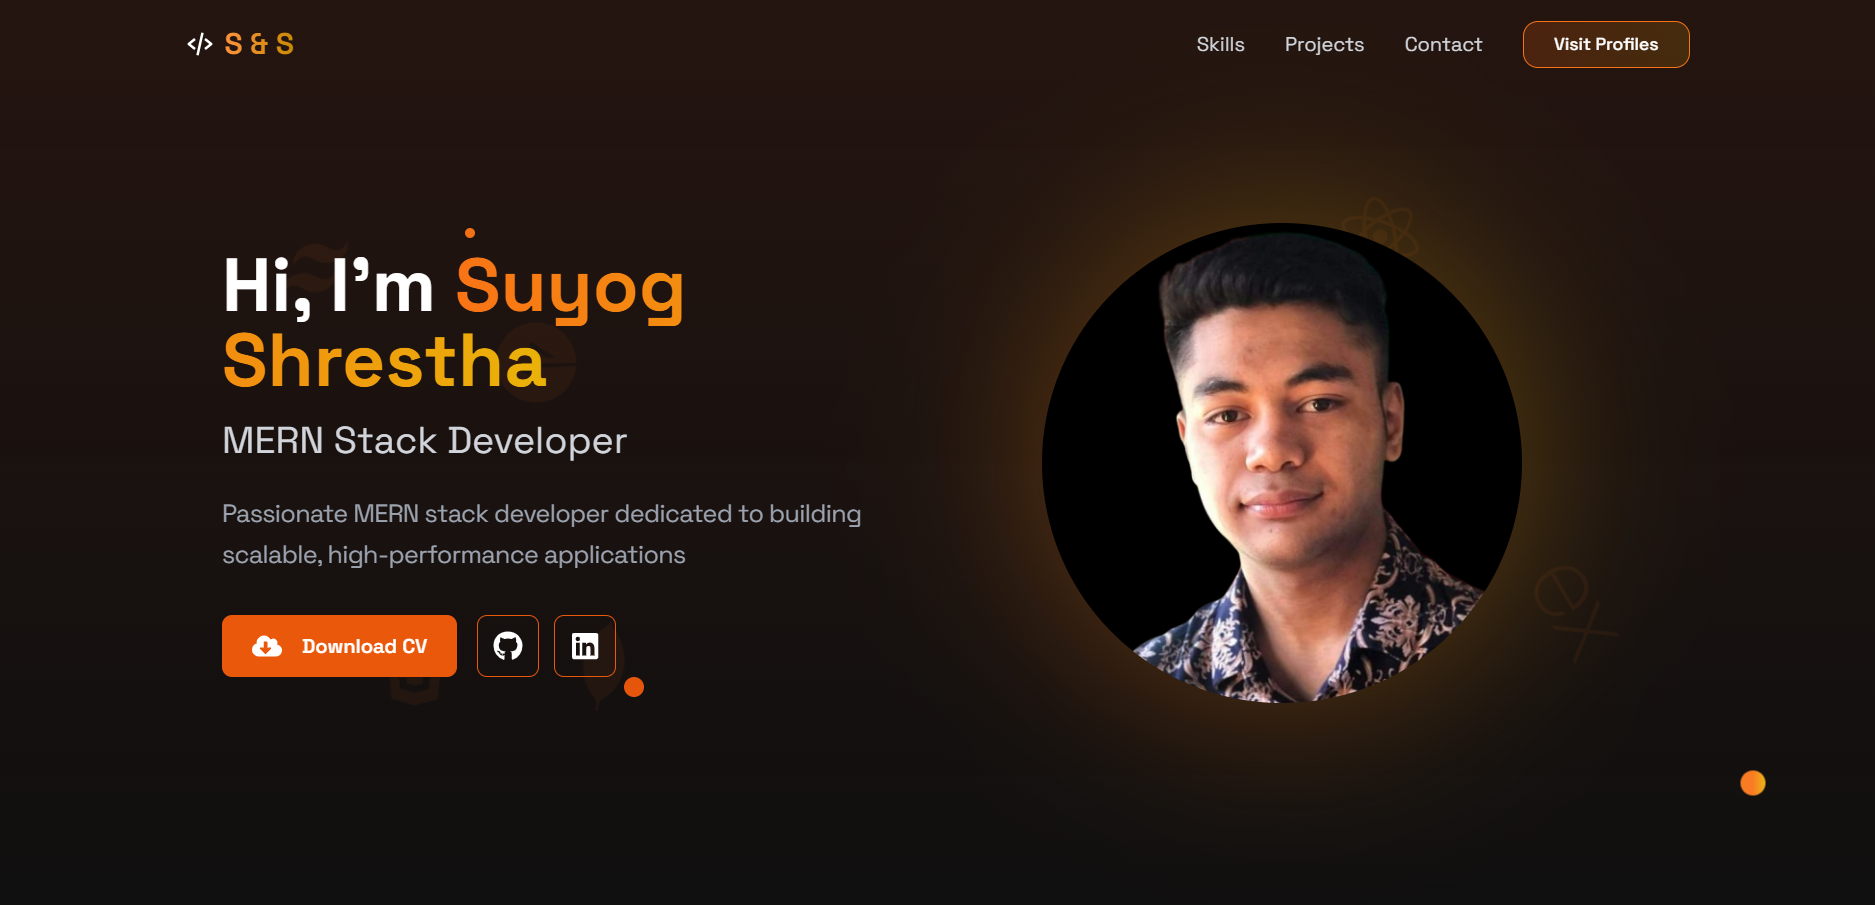
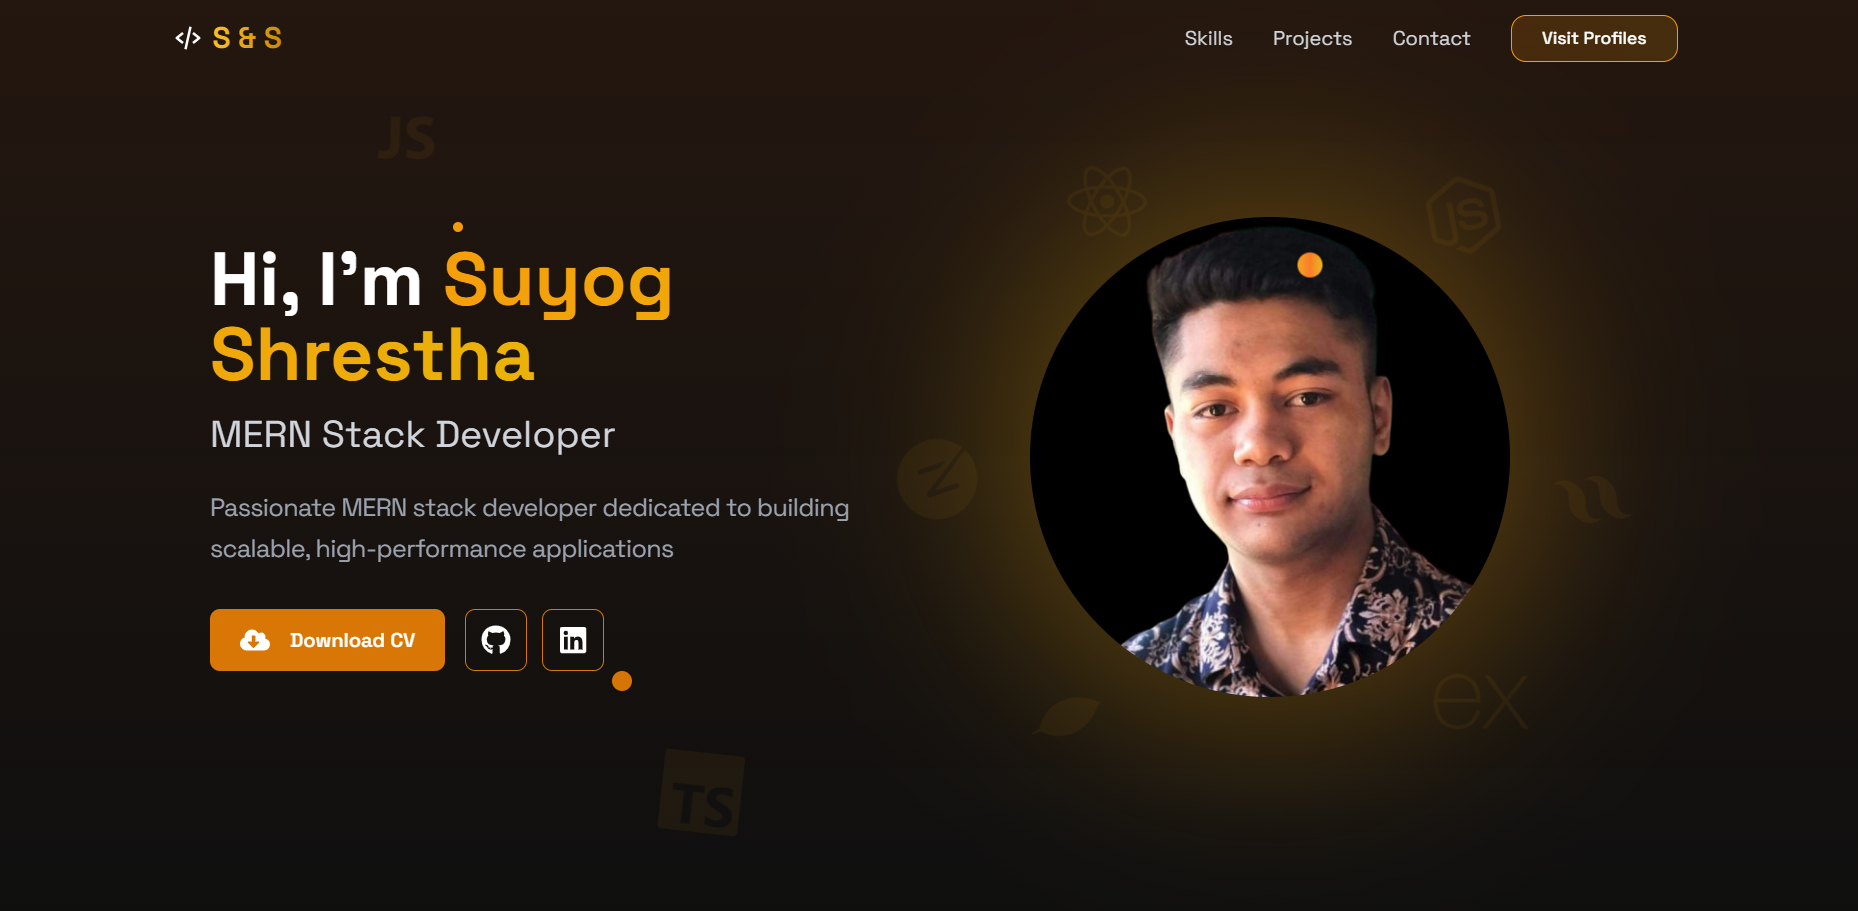
changes

diff --git a/src/components/Hero.jsx b/src/components/Hero.jsx
@@ -1,7 +1,15 @@
 import { useState, useEffect } from "react";
 import { motion } from "framer-motion";
 import { TypeAnimation } from "react-type-animation";
-import { FaGithub, FaLinkedin, FaReact, FaNodeJs, FaDownload, FaFileDownload, FaCloudDownloadAlt } from "react-icons/fa";
+import {
+  FaGithub,
+  FaLinkedin,
+  FaReact,
+  FaNodeJs,
+  FaDownload,
+  FaFileDownload,
+  FaCloudDownloadAlt,
+} from "react-icons/fa";
 import { DiJavascript, DiMongodb } from "react-icons/di";
 import {
   SiTypescript,
@@ -24,7 +32,7 @@ const FloatingIcon = ({ Icon, className, animate }) => {
 
   return (
     <motion.div
-      className={`absolute text-amber-500/25 ${className}`}
+      className={`absolute text-orange-500/25 ${className}`}
       animate={{
         ...animate,
         x: [0, mousePosition.x * 0.02, 0],
@@ -46,7 +54,7 @@ const Hero = () => {
   return (
     <section className="relative min-h-screen flex items-center justify-center overflow-hidden py-16 lg:py-24">
       {/* Background gradient */}
-      <div className="absolute inset-0 bg-gradient-to-b from-amber-900/20 to-transparent"></div>
+      <div className="absolute inset-0 bg-gradient-to-b from-orange-900/20 to-transparent"></div>
 
       <div className="container mx-auto px-4 lg:px-6 z-10">
         <div className="flex flex-col md:flex-row items-center justify-between gap-6 lg:gap-8 max-w-6xl mx-auto">
@@ -57,36 +65,39 @@ const Hero = () => {
             transition={{ duration: 0.8 }}
             className="flex-1 text-white max-w-lg"
           >
-            <h1 className="text-4xl md:text-5xl lg:text-6xl font-bold mb-4">
-              Hi, I'm{" "}
-              <span className="bg-gradient-to-r from-amber-500 to-yellow-500 bg-clip-text text-transparent">
+            <h1 className="text-4xl md:text-5xl lg:text-6xl font-bold mb-4 flex justify-center md:justify-start gap-2 ">
+              Hi, I'm{"  "}
+              <span className="bg-gradient-to-r from-orange-500 to-yellow-500 bg-clip-text text-transparent">
                 Suyog Shrestha
               </span>
             </h1>
-            <TypeAnimation
-              sequence={[
-                "MERN Stack Developer",
-                1000,
-                "Coder  ",
-                1000,
-                "Programmer",
-                1000,
-              ]}
-              wrapper="h3"
-              repeat={Infinity}
-              className="text-2xl md:text-2xl lg:text-3xl text-gray-300 mb-6"
-            />
-            <p className="text-gray-400 mb-8 max-w-lg">
+            <div className="flex justify-center items-center w-full">
+              <TypeAnimation
+                sequence={[
+                  "MERN Stack Developer",
+                  1000,
+                  "Coder  ",
+                  1000,
+                  "Programmer",
+                  1000,
+                ]}
+                wrapper="h3"
+                repeat={Infinity}
+                className="text-2xl md:text-2xl lg:text-3xl text-gray-300 mb-6 text-center"
+              />
+            </div>
+
+            <p className="text-gray-400 mb-8 max-w-lg text-center md:text-left">
               Passionate MERN stack developer dedicated to building scalable,
               high-performance applications
             </p>
-            <div className="flex gap-4">
+            <div className="flex gap-4 justify-center md:justify-start">
               <motion.a
                 href="/src/assets/Resume.pdf"
-                download="Suyog Shrestha_CV.pdf" 
+                download="Suyog Shrestha_CV.pdf"
                 whileHover={{ scale: 1.05 }}
                 whileTap={{ scale: 0.95 }}
-                className="px-6 py-3 bg-amber-600 rounded-lg font-semibold hover:bg-amber-700 transition-colors flex items-center gap-2"
+                className="px-6 py-3 bg-orange-600 rounded-lg font-semibold hover:bg-orange-700 transition-colors flex items-center gap-2"
               >
                 <FaCloudDownloadAlt className="mr-2 w-6 h-6" />
                 Download CV
@@ -97,27 +108,27 @@ const Hero = () => {
                   href="https://github.com/suystha7" // Replace with your GitHub URL
                   target="_blank"
                   rel="noopener noreferrer"
-                  className="p-3 border border-amber-600 rounded-lg hover:bg-amber-600/10 transition-all group"
+                  className="p-3 border border-orange-600 rounded-lg hover:bg-orange-600/10 transition-all group"
                   whileHover={{
                     scale: 1.05,
                     rotate: [0, -10, 10, 0],
                   }}
                   whileTap={{ scale: 0.95 }}
                 >
-                  <FaGithub className="w-6 h-6 text-white group-hover:text-amber-500 transition-colors" />
+                  <FaGithub className="w-6 h-6 text-white group-hover:text-orange-500 transition-colors" />
                 </motion.a>
                 <motion.a
                   href="https://www.linkedin.com/in/suyog-shrestha-843b95248/" // Replace with your LinkedIn URL
                   target="_blank"
                   rel="noopener noreferrer"
-                  className="p-3 border border-amber-600 rounded-lg hover:bg-amber-600/10 transition-all group"
+                  className="p-3 border border-orange-600 rounded-lg hover:bg-orange-600/10 transition-all group"
                   whileHover={{
                     scale: 1.05,
                     rotate: [0, -10, 10, 0],
                   }}
                   whileTap={{ scale: 0.95 }}
                 >
-                  <FaLinkedin className="w-6 h-6 text-white group-hover:text-amber-500 transition-colors" />
+                  <FaLinkedin className="w-6 h-6 text-white group-hover:text-orange-500 transition-colors" />
                 </motion.a>
               </div>
             </div>
@@ -128,7 +139,7 @@ const Hero = () => {
             initial={{ opacity: 0, scale: 0.8 }}
             animate={{ opacity: 1, scale: 1 }}
             transition={{ duration: 0.8 }}
-            className="flex-1 flex justify-center items-center lg:justify-center"
+            className="flex-1 flex justify-center items-center lg:justify-center mt-5 md:mt-0"
           >
             <motion.div
               className="relative w-64 h-64 md:w-80 md:h-80 lg:w-96 lg:h-96 group cursor-pointer"
@@ -137,7 +148,7 @@ const Hero = () => {
             >
               {/* Animated gradient background */}
               <motion.div
-                className="absolute inset-0 bg-gradient-to-r from-amber-500 to-yellow-500 rounded-full blur-3xl opacity-30"
+                className="absolute inset-0 bg-gradient-to-r from-orange-500 to-yellow-500 rounded-full blur-3xl opacity-30"
                 animate={{
                   scale: [1, 1.2, 1],
                   rotate: [0, 180, 360],
@@ -159,7 +170,7 @@ const Hero = () => {
               />
 
               {/* Decorative ring */}
-              <div className="absolute inset-0 rounded-full border-2 border-amber-500/50 scale-110 opacity-0 group-hover:opacity-100 transition-all duration-300" />
+              <div className="absolute inset-0 rounded-full border-2 border-orange-500/50 scale-110 opacity-0 group-hover:opacity-100 transition-all duration-300" />
             </motion.div>
           </motion.div>
         </div>
@@ -227,9 +238,9 @@ const Hero = () => {
 
       {/* Remove or adjust the existing floating elements if needed */}
       <div className="absolute inset-0 pointer-events-none">
-        <div className="absolute top-1/4 left-1/4 w-2 h-2 bg-amber-500 rounded-full animate-pulse"></div>
+        <div className="absolute top-1/4 left-1/4 w-2 h-2 bg-orange-500 rounded-full animate-pulse"></div>
         <div className="absolute top-1/2 right-1/3 w-3 h-3 bg-yellow-500 rounded-full animate-pulse"></div>
-        <div className="absolute bottom-1/4 left-1/3 w-4 h-4 bg-amber-600 rounded-full animate-pulse"></div>
+        <div className="absolute bottom-1/4 left-1/3 w-4 h-4 bg-orange-600 rounded-full animate-pulse"></div>
       </div>
     </section>
   );

diff --git a/src/components/Experience.jsx b/src/components/Experience.jsx
@@ -1,4 +1,3 @@
-import React from "react";
 import { motion } from "framer-motion";
 import Reveal from "./Reveal";
 
@@ -51,7 +50,7 @@ const Experience = () => {
         </motion.div>
 
         <motion.div
-          className="grid grid-cols-1 md:grid-cols-2 lg:grid-cols-3 gap-4 md:gap-6"
+          className="grid sm:grid-cols-2 lg:grid-cols-3 gap-4 md:gap-6 text-center place-content-center"
           initial="hidden"
           animate="visible"
           transition={{ staggerChildren: 0.3 }} // For staggered animation effect on the child items
@@ -65,11 +64,11 @@ const Experience = () => {
                 transition={{ duration: 1 }}
                 className="flex-none w-[300px] sm:w-[350px] md:w-[400px] border border-amber-600 p-6 rounded-lg shadow-md hover:shadow-xl transition-shadow duration-300 bg-amber-700/10"
               >
-                <h2 className="text-gray-100 text-xl font-semibold">
+                <h2 className="text-gray-100 text-base md:text-[21px] font-bold">
                   {experience.company}
                 </h2>
-                <p className="text-gray-300">{experience.period}</p>
-                <p className="text-gray-400 mt-4">{experience.position}</p>
+                <p className="text-gray-300 text-base">{experience.period}</p>
+                <p className="text-gray-200 mt-4 text-lg font-semibold">{experience.position}</p>
               </motion.div>
             </Reveal>
           ))}

diff --git a/src/components/Navbar.jsx b/src/components/Navbar.jsx
@@ -146,7 +146,7 @@ const Navbar = () => {
           transition={{ type: "spring", damping: 20 }}
         >
           <ul className="space-y-8 mt-20">
-            {["about", "portfolio", "contact"].map((section, index) => (
+            {["skills", "projects", "contact"].map((section, index) => (
               <motion.li
                 key={section}
                 initial={{ opacity: 0, x: 20 }}

diff --git a/src/components/Portfolio.jsx b/src/components/Portfolio.jsx
@@ -1,5 +1,5 @@
 import { useState, useEffect } from "react";
-import { motion} from "framer-motion";
+import { motion } from "framer-motion";
 import { AiOutlineGithub, AiOutlineEye } from "react-icons/ai";
 import { Particles } from "@tsparticles/react";
 import { loadSlim } from "@tsparticles/slim";

diff --git a/src/App.jsx b/src/App.jsx
@@ -46,9 +46,9 @@ export default function App() {
       <Cursor />
       <Navbar/>
       <Hero />
+      <Experience />
       <Skills />
       <Portfolio />
-      <Experience />
       {/* <CodingStats /> */}
       <Contact />
       <Footer />

diff --git a/src/components/Skills.jsx b/src/components/Skills.jsx
@@ -80,7 +80,7 @@ const skills = [
         name: "Express.js",
         icon: <SiExpress />,
         color: "text-[#000]",
-        bgColor: "bg-[#fff]/10",
+        bgColor: "bg-[#fff]/80",
       },
       {
         name: "MongoDB",
